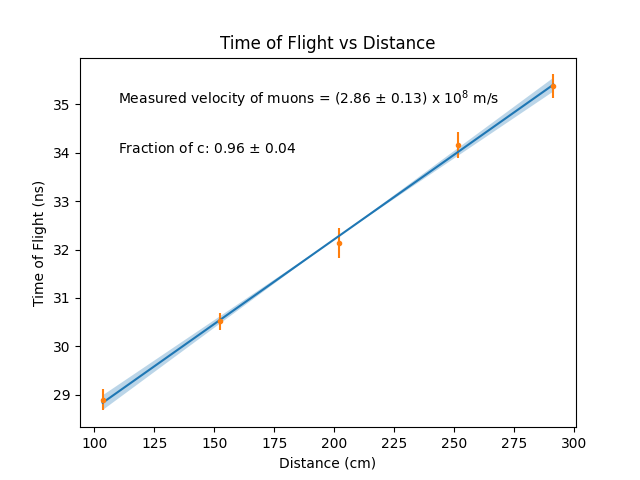
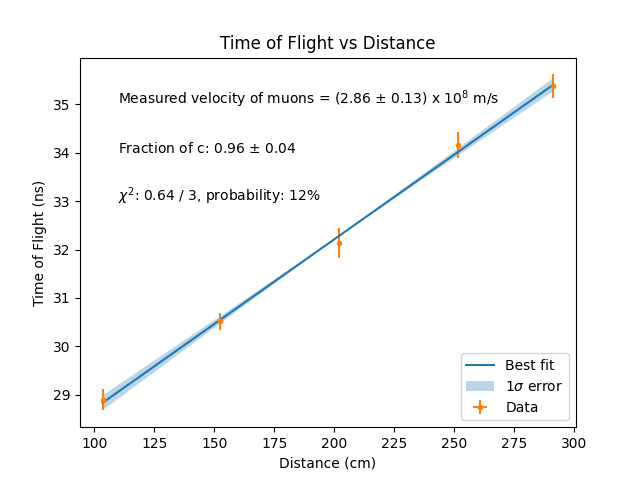
updates to analysis

Changed region(s): [[0.1875, 0.375, 0.4375, 0.4375], [0.7188, 0.75, 0.875, 0.875], [0.4688, 0.375, 0.5, 0.4375]]

diff --git a/Exp1-CosmicRayMuons/cccccccc.py b/Exp1-CosmicRayMuons/cccccccc.py
@@ -38,6 +38,8 @@ file_names = [str(d) + 'cm_final' for d in distances]
 # get the time of flight for each distance
 tofs = [get_tof(file_name)[0] for file_name in file_names]
 tof_errors = [get_tof(file_name)[1] for file_name in file_names]
+
+print(f"Loaded time-of-flights: {tofs}, {tof_errors}")
 # print(tofs)
 
 # plot the time of flight vs distance
@@ -55,11 +57,15 @@ min_line = [(m+merr)*d+(b-berr) for d in corrected_distances]
 
 
 
-plt.errorbar(corrected_distances, tofs, xerr=corrected_distances_std, yerr=tof_errors, ls='none', marker=".", color = 'tab:orange')
-plt.fill_between(corrected_distances, min_line, max_line,alpha=0.3)
-plt.plot(corrected_distances, best_line, color = 'tab:blue')
+plt.errorbar(corrected_distances, tofs, xerr=corrected_distances_std, yerr=tof_errors, ls='none', marker=".", color = 'tab:orange',label="Data")
+plt.fill_between(corrected_distances, min_line, max_line,alpha=0.3,label="$1\sigma$ error")
+plt.plot(corrected_distances, best_line, color = 'tab:blue',label="Best fit")
+plt.legend(loc="lower right")
 
 
+# calculate chi-squared of trend line
+chi = sum([(tofs[i]-best_line[i])**2/(tof_errors[i]**2) for i in range(len(tofs))])
+print(chi)
 # calculate the speed of light
 # m is in units of ns/cm
 c = (1/m) * 1e7 # in units of m/s
@@ -71,6 +77,7 @@ print(f"fraction of speed of light: {c/cc} +- {cerr/cc}")
 c_text = f"({c/1e8:.2f} $\pm$ {cerr/1e8:.2f}) x $10^8$ m/s"
 plt.text(110, 35, f"Measured velocity of muons = {c_text}")
 plt.text(110, 34, f"Fraction of c: {c/cc:.2f} $\pm$ {cerr/cc:.2f}")
+plt.text(110, 33, f"$\chi^2$: {chi:.2f} / 3, probability: 12%")
 
 
 plt.savefig('./images/tof_vs_distance.png')
